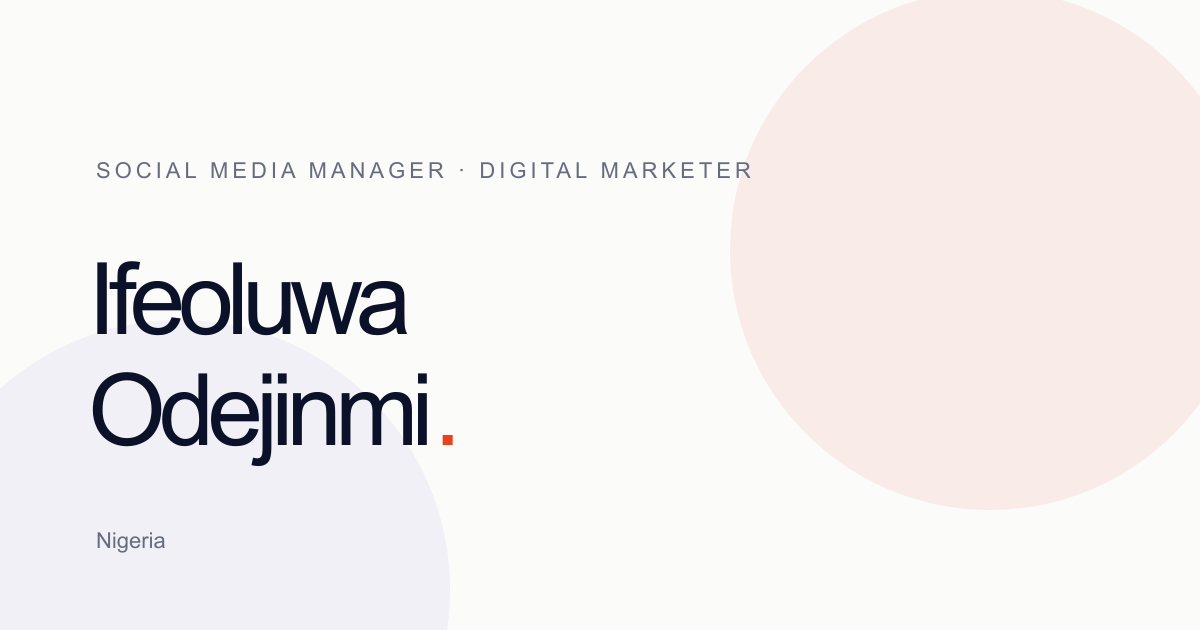
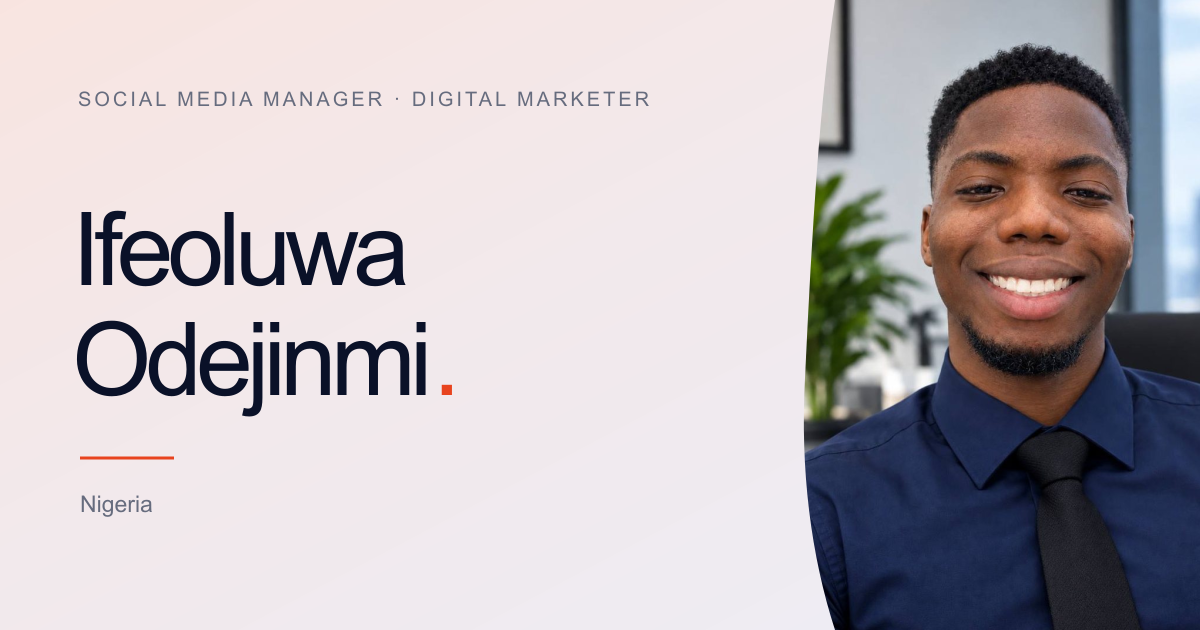
Match prototype presentation and finalize production setup

diff --git a/src/styles/global.css b/src/styles/global.css
@@ -20,8 +20,8 @@
   scroll-behavior: smooth;
 }
 :root[data-theme='light'] { color-scheme: light; --bg:#FBFBFA; --ink:#0A1128; --mute:#666C7E; --line:#DCDDE2; --accent:#E8431E; --glass:rgba(255,255,255,.5); --glass-border:rgba(10,17,40,.13); }
-:root[data-theme='dark'] { color-scheme: dark; --bg:#0A1128; --ink:#F3F3F1; --mute:#9AA0B4; --line:#232B4A; --accent:#FF6A47; --error:#FF8A7A; --glass:rgba(255,255,255,.06); --glass-border:rgba(255,255,255,.12); }
-@media (prefers-color-scheme: dark) { :root:not([data-theme='light']) { --bg:#0A1128; --ink:#F3F3F1; --mute:#9AA0B4; --line:#232B4A; --accent:#FF6A47; --error:#FF8A7A; --glass:rgba(255,255,255,.06); --glass-border:rgba(255,255,255,.12); } }
+:root[data-theme='dark'] { color-scheme: dark; --bg:#0A1128; --ink:#F3F3F1; --mute:#9AA0B4; --line:#232B4A; --accent:#FF6A47; --error:#FF8A7A; --glass:rgba(255,255,255,.06); --glass-border:rgba(255,255,255,.12); --shadow:0 14px 44px rgba(0,0,0,.2); }
+@media (prefers-color-scheme: dark) { :root:not([data-theme='light']) { --bg:#0A1128; --ink:#F3F3F1; --mute:#9AA0B4; --line:#232B4A; --accent:#FF6A47; --error:#FF8A7A; --glass:rgba(255,255,255,.06); --glass-border:rgba(255,255,255,.12); --shadow:0 14px 44px rgba(0,0,0,.2); } }
 * { box-sizing: border-box; }
 html { scroll-padding-top: 88px; }
 body { margin: 0; min-width: 320px; background: var(--bg); color: var(--ink); font: 400 16px/1.5 var(--body); }
@@ -135,13 +135,49 @@ h1 { margin: 28px 0 18px; font: 300 clamp(80px, 10.5vw, 150px)/.82 var(--display
 .footer .wordmark { color: var(--ink); }
 .footer small { grid-column: 1/-1; }
 .lightbox { position: fixed; inset: 0; width: min(100%, 1100px); max-width: 100%; height: 100%; max-height: 100%; padding: 64px clamp(20px, 6vw, 80px) 35px; border: 0; color: var(--ink); background: transparent; overflow: hidden; }
-.lightbox::backdrop { background: rgba(8,13,31,.82); backdrop-filter: blur(16px) saturate(150%); }
+.lightbox::backdrop { background: var(--glass); backdrop-filter: blur(18px) saturate(160%); }
 .lightbox-close { position: absolute; z-index: 1; right: 24px; top: 18px; font-size: 24px; }
 .lightbox-prev, .lightbox-next { position: absolute; z-index: 1; top: 50%; transform: translateY(-50%); }
 .lightbox-prev { left: 16px; }.lightbox-next { right: 16px; }
 .lightbox-content { display: grid; place-items: center; width: 100%; height: calc(100% - 40px); }
 .lightbox-content img, .lightbox-content video { display: block; max-width: 100%; max-height: 100%; width: auto; height: auto; object-fit: contain; border-radius: 3px; }
-.lightbox-caption { margin: 9px 55px; color: #fff; text-align: center; font-size: 13px; }
+.lightbox-caption { margin: 9px 55px; padding: 4px 10px; border-radius: 999px; color: #fff; background: rgba(10,17,40,.78); text-align: center; font-size: 13px; }
+.progress { top: 80px; left: max(calc((100% - 1240px) / 2), 24px); right: auto; width: min(1240px, calc(100% - 48px)); }
+.hero { min-height: 0; grid-template-columns: minmax(0, 1fr) 330px; gap: 64px; padding-block: 96px 72px; }
+h1 { font-size: clamp(60px, 12.5vw, 190px); line-height: .88; letter-spacing: -.055em; }
+.hero-intro { max-width: 30em; margin-top: 40px; font-size: 18px; line-height: 1.65; }
+.portrait { width: 100%; aspect-ratio: 3/4; border-radius: 0; }
+.portrait { animation: rise .9s cubic-bezier(.16,.84,.3,1) .3s both; }
+.portrait img { object-position: 50% 20%; }
+.hero-caption { display: none; }
+.about-grid { grid-template-columns: 260px minmax(0, 1fr); gap: 64px; padding-top: 0; }
+.about-grid h2 { min-height: 0; padding-top: 6px; color: var(--mute); font: 500 17px/1.4 var(--body); letter-spacing: -.005em; }
+.about-lead { max-width: 24em; margin: 0 0 32px; color: var(--ink); font: 300 clamp(28px, 3.6vw, 48px)/1.18 var(--display); letter-spacing: -.03em; }
+.section-title { margin: 0 0 32px; font: 500 17px/1.4 var(--body); letter-spacing: -.005em; color: var(--mute); }
+.service-list li { grid-template-columns: minmax(0, 1fr) minmax(0, 1.4fr); gap: 40px; min-height: 0; padding: 30px 0; }
+.service-list li > span { display: none; }
+.brand-grid { grid-template-columns: 1fr; margin-top: 0; border-left: 0; }
+.brand-card { display: grid; grid-template-columns: minmax(0, 1fr) minmax(0, 1.4fr); gap: 40px; min-height: 0; padding: 30px 0; border-left: 0; }
+.brand-card h3 { font-size: clamp(24px, 2.6vw, 34px); }
+.brand-card h3 small { display: block; margin-top: 8px; color: var(--mute); font: 400 15px/1.5 var(--body); letter-spacing: 0; }
+.brand-card ul { list-style: none; padding: 0; }
+.brand-card li { padding: 3px 0; }
+.case-study h2 { max-width: 24em; margin: 0 0 32px; font: 300 clamp(28px, 3.6vw, 48px)/1.18 var(--display); letter-spacing: -.03em; }
+.case-study .prose { max-width: none; margin-left: 324px; }
+.gallery { columns: 3; column-gap: 20px; margin-top: 0; }
+.gallery-item { margin-bottom: 20px; background: transparent; }
+.gallery-caption { padding-top: 10px; font-size: 14px; }
+.testimonial-note { margin: 0 0 28px; color: var(--mute); }
+.section-head { display: none; }
+.section { padding-block: 120px; }
+.contact-section { padding-top: 120px; padding-bottom: 80px; }
+.contact-section h2 { margin: 0; font-size: clamp(48px, 10vw, 150px); line-height: .92; letter-spacing: -.055em; }
+.results-grid { gap: 32px; }
+.result-card { padding: 28px; border-radius: 24px; }
+.result-card strong { font: 500 15px/1.4 var(--body); letter-spacing: 0; }
+.topbar nav:not(.mobile-nav) a { padding-block: 8px; }
+.quote-panel { border-radius: 28px; padding: clamp(28px, 5vw, 56px); }
+.topbar { border-radius: 10px; }
 .js-reveals .section, .js-reveals .figure, .js-reveals .brand-card, .js-reveals .result-card { opacity: 0; transform: translateY(28px); transition: opacity 900ms cubic-bezier(.16,.84,.3,1) var(--reveal-delay, 0ms), transform 900ms cubic-bezier(.16,.84,.3,1) var(--reveal-delay, 0ms); }
 .js-reveals .is-visible { opacity: 1; transform: none; }
 @keyframes rise { from { opacity: 0; transform: translateY(22px); } to { opacity: 1; transform: none; } }
@@ -196,4 +232,25 @@ h1 { margin: 28px 0 18px; font: 300 clamp(80px, 10.5vw, 150px)/.82 var(--display
 @media (prefers-reduced-motion: reduce) {
   *, *::before, *::after { scroll-behavior: auto !important; animation-duration: .01ms !important; animation-iteration-count: 1 !important; transition-duration: .01ms !important; }
   .js-reveals .section, .js-reveals .figure, .js-reveals .brand-card, .js-reveals .result-card { opacity: 1; transform: none; }
+}
+@media (max-width: 900px) {
+  .progress { top: 80px; left: 16px; width: calc(100% - 32px); }
+  .hero { grid-template-columns: 1fr; gap: 28px; padding-block: 56px 48px; }
+  .portrait { max-width: 300px; justify-self: start; }
+  .about-grid { grid-template-columns: 1fr; gap: 28px; }
+  .case-study .prose { margin-left: 0; }
+  .gallery { columns: 2; }
+  .results-grid { grid-template-columns: 1fr; }
+  .brand-card { grid-template-columns: 1fr; gap: 12px; }
+}
+@media (max-width: 520px) {
+  .progress { top: 65px; left: 10px; width: calc(100% - 20px); }
+  .hero { display: grid; padding-block: 56px 48px; }
+  .hero-copy { position: static; }
+  .portrait { position: relative; right: auto; bottom: auto; width: min(100%, 300px); }
+  .hero-intro { margin-top: 24px; }
+  .gallery { columns: 1; }
+  .service-list li { grid-template-columns: 1fr; gap: 10px; padding-block: 20px; }
+  .service-list p { grid-column: auto; grid-row: auto; }
+  .contact-section h2 { font-size: clamp(48px, 12vw, 72px); }
 }

diff --git a/keystatic.config.ts b/keystatic.config.ts
@@ -8,7 +8,7 @@ if (githubRepo && (!repoOwner || !repoName)) throw new Error('KEYSTATIC_GITHUB_R
 const storage = githubRepo
   ? { kind: 'github' as const, repo: { owner: repoOwner, name: repoName } }
   : { kind: 'local' as const };
-const imageField = (label: string) => fields.image({ label, directory: 'src/assets/media', publicPath: '../../assets/media/' });
+const imageField = (label: string) => fields.image({ label, directory: 'src/assets/media', publicPath: '@assets/media/' });
 
 export default config({
   storage,

diff --git a/README.md b/README.md
@@ -1,6 +1,6 @@
 # Ifeoluwa Odejinmi portfolio
 
-Astro, TypeScript, static output, plain CSS and Keystatic. The portfolio page is prerendered; Keystatic's GitHub editor endpoints run through the Vercel or Netlify adapter.
+Single-page portfolio built with Astro, TypeScript, plain CSS, Astro content collections and Keystatic. The portfolio page is prerendered; the `/keystatic` editor uses the selected host's server functions. The reference prototype is `C:\Users\USER\Downloads\index.html`; its copy and embedded images have been seeded into the site.
 
 ## Local setup
 
@@ -12,44 +12,49 @@ Copy-Item .env.example .env
 npm run dev
 ```
 
-Open `http://localhost:4321` and `http://localhost:4321/keystatic`. Keystatic runs in local mode during development and writes content into `src/content`. Add the original `index.html` prototype before launch: it was not present in the supplied workspace, so exact copy, embedded pictures, the four figures, service rows, testimonial text, and results could not be recovered or seeded. The current data files contain only details supplied in the brief; do not treat the incomplete page as final portfolio content.
+Open `http://localhost:4321` and `http://localhost:4321/keystatic`. In development, Keystatic runs in local mode and writes edits to `src/content`. Run `npm run check` for the Astro and TypeScript diagnostics, then `npm run build` to create the site.
 
-## Editing content
+## Editing content in Keystatic
 
-Use `/keystatic` in the local dev server. Edit Site settings, About, Case study, Results, Figures, Services, Brands, Gallery items, and Testimonial content. Keystatic commits its edits to files under `src/content`; check and commit those files with the website changes. The project uses Astro content collections and validates data with `src/content.config.ts`.
+Open `/keystatic` while the local dev server is running. The **Site settings**, **About**, and **Case study** entries are singletons. Use the **Figures**, **Services**, **Brands**, **Gallery items**, **Testimonial content**, and **Results cards** collections to edit ordered records. All images are stored in `src/assets/media`; the page uses Astro's image pipeline to generate AVIF and WebP variants and retains explicit image dimensions.
 
-For GitHub mode, push the repository to GitHub, set `KEYSTATIC_GITHUB_REPO=owner/repository`, and configure `KEYSTATIC_GITHUB_CLIENT_ID`, `KEYSTATIC_GITHUB_CLIENT_SECRET`, `KEYSTATIC_SECRET`, and `PUBLIC_KEYSTATIC_GITHUB_APP_SLUG` in the production host. Visit `/keystatic` on the deployed site to create/configure a GitHub App; give it repository write access and add the deployed callback URL as prompted. Only people with repository write access can edit content. Local development remains in local mode.
+For production GitHub mode:
+
+1. Push the project to a GitHub repository.
+2. Set `KEYSTATIC_GITHUB_REPO` to `owner/repository` and configure `KEYSTATIC_GITHUB_CLIENT_ID`, `KEYSTATIC_GITHUB_CLIENT_SECRET`, `KEYSTATIC_SECRET`, and `PUBLIC_KEYSTATIC_GITHUB_APP_SLUG` in the host's environment.
+3. Deploy and open `/keystatic`. Register a GitHub OAuth App using the callback URL shown by Keystatic. Grant access to the portfolio repository and keep access limited to the people who should edit the site.
+
+Local development remains in local mode unless GitHub storage is configured. Production builds on Vercel and Netlify require `KEYSTATIC_GITHUB_REPO` so the editor writes changes back to GitHub.
 
 ## Adding a video reel
 
-Create a Gallery item with Type `video`, add a still image as Poster, set its caption and order, then provide an MP4 URL and optional WebM URL. Keep reels muted and provide captions/alt text in the media description. With no video URL, the item opens its poster as an image. Two video entries are seeded with the supplied Forevermore and Yard.ng reel labels, but the referenced poster stills are missing from this workspace; until they are added, those entries show caption-only fallbacks. Real stills and video files remain TODO.
+Add a Gallery item with Type `video`, a Poster image, caption and order, then enter the MP4 URL and optional WebM URL. The poster is used in the gallery and as the video poster. The lightbox opens the reel muted with controls; users can enable sound. If neither video URL is set, the still opens as an image. Two video entries are seeded with the Forevermore reel and Yard.ng testimonial reel stills. **TODO: replace their empty MP4/WebM sources with the real video files when supplied.**
 
 ## Contact form
 
-Set `PUBLIC_FORM_ENDPOINT` to a Formspree form endpoint or another endpoint that accepts normal HTML form POST requests and returns JSON when sent with `Accept: application/json`. The form uses that value for both native POST and progressive fetch enhancement. Empty endpoint shows a setup message with JavaScript; configure an endpoint before launch.
+Set `PUBLIC_FORM_ENDPOINT` to a Formspree form endpoint (or another endpoint accepting a normal HTML POST and JSON fetch requests with `Accept: application/json`). It is used for both the browser's native form submission and the progressive fetch enhancement. The form includes browser validation and a honeypot. If the endpoint is unset, the enhanced form explains how to contact Ifeoluwa through the phone and LinkedIn links; configure an endpoint before launch.
 
 ## Analytics
 
-Plausible is the default provider; analytics is disabled unless `PUBLIC_ANALYTICS_ID` is set. `PUBLIC_ANALYTICS_PROVIDER` accepts `plausible` or `ga4`; ID is the Plausible domain or GA4 measurement ID. Do Not Track disables all analytics loading and events. Plausible and GA4 are configured without cookies.
+Analytics are disabled until `PUBLIC_ANALYTICS_ID` is set. Set `PUBLIC_ANALYTICS_PROVIDER=plausible` (the default) and use the Plausible domain as the ID, or set the provider to `ga4` and use its measurement ID. Analytics scripts load only when both values are set and the visitor has not enabled Do Not Track. GA4 storage is disabled; Plausible is cookieless. The site emits events for contact submission, phone and LinkedIn clicks, gallery opens, and video playback.
 
 ## Deploy to Vercel
 
-Import the repository in Vercel, set `PUBLIC_SITE_URL`, `PUBLIC_FORM_ENDPOINT`, analytics values if needed, and Keystatic GitHub environment variables. Build command is `npm run build`; the Vercel adapter is the default. The portfolio route is prerendered while Keystatic API routes use Vercel functions.
+Import the repository in Vercel. The default Astro adapter is Vercel. Set `PUBLIC_SITE_URL`, `PUBLIC_FORM_ENDPOINT`, optional analytics values, and the Keystatic GitHub variables in Project Settings → Environment Variables. The build command is `npm run build`; Astro emits the prerendered portfolio and Vercel functions for Keystatic.
 
 ## Deploy to Netlify
 
-Import the repository in Netlify. `netlify.toml` sets the build command, publish directory, and `DEPLOY_TARGET=netlify`; the Astro config selects the Netlify adapter. Add the same public form, site URL, analytics and Keystatic variables in Site configuration. Keystatic requires Netlify Functions for its API routes while the portfolio page is prerendered.
+Import the repository in Netlify. `netlify.toml` sets `DEPLOY_TARGET=netlify`, `npm run build`, and `dist` as the publish directory; the Astro config then selects the Netlify adapter. Add `PUBLIC_SITE_URL`, `PUBLIC_FORM_ENDPOINT`, optional analytics values, and the Keystatic GitHub variables in Site configuration → Environment variables. Netlify Functions support Keystatic's server routes.
 
 ## Owner items before launch
 
-- Supply the exact self-contained prototype `index.html` so its copy, spacing, figures, services, result cards, testimonials and all nine embedded images can be extracted.
-- Confirm the prototype spelling discrepancy: use **Calidad Foods** for the brand and **Calidads** only in the ads label.
-- Supply a contact email address and confirm phone/LinkedIn details.
-- Set the production domain and `PUBLIC_SITE_URL`.
-- Supply the Forevermore and Yard.ng reel stills plus their video files, or confirm poster-only display.
-- Confirm whether the Yard.ng team photo should carry a credit.
-- Supply the portrait and social sharing image (current OG card is a typographic SVG without the portrait).
+- Confirm the spelling distinction found in the prototype: **Calidad Foods** as the brand name and **Calidads** only in the ads result label.
+- Supply the contact email address; none is present in the prototype.
+- Set the production domain in `PUBLIC_SITE_URL`.
+- Supply the actual Forevermore and Yard.ng reel video files; their extracted stills already appear in the gallery.
+- Confirm whether the Yard.ng team photo from the original portfolio should be credited; it is not used here.
+- Set up the production form endpoint and, if desired, analytics credentials.
 
-## Stack note
+## Astro and Keystatic compatibility
 
-The newest stable Astro major is ahead of the Astro compatibility range currently documented for `@keystatic/astro`. This project pins the Astro 5 line with Keystatic 5 so the CMS can run, and uses adapters for its required Node.js routes. This is a deliberate compatibility choice; upgrade to Astro 7 only after Keystatic documents support for it.
+Astro's current latest stable release is v7, but Keystatic has an open request for Astro v7 compatibility. This project stays on the Astro 5 line required by its tested Keystatic integration so local and GitHub editing work. Revisit the Astro major upgrade when Keystatic documents support. See the [Astro release documentation](https://docs.astro.build/en/upgrade-astro/) and [Keystatic Astro compatibility request](https://github.com/Thinkmill/keystatic/issues).
